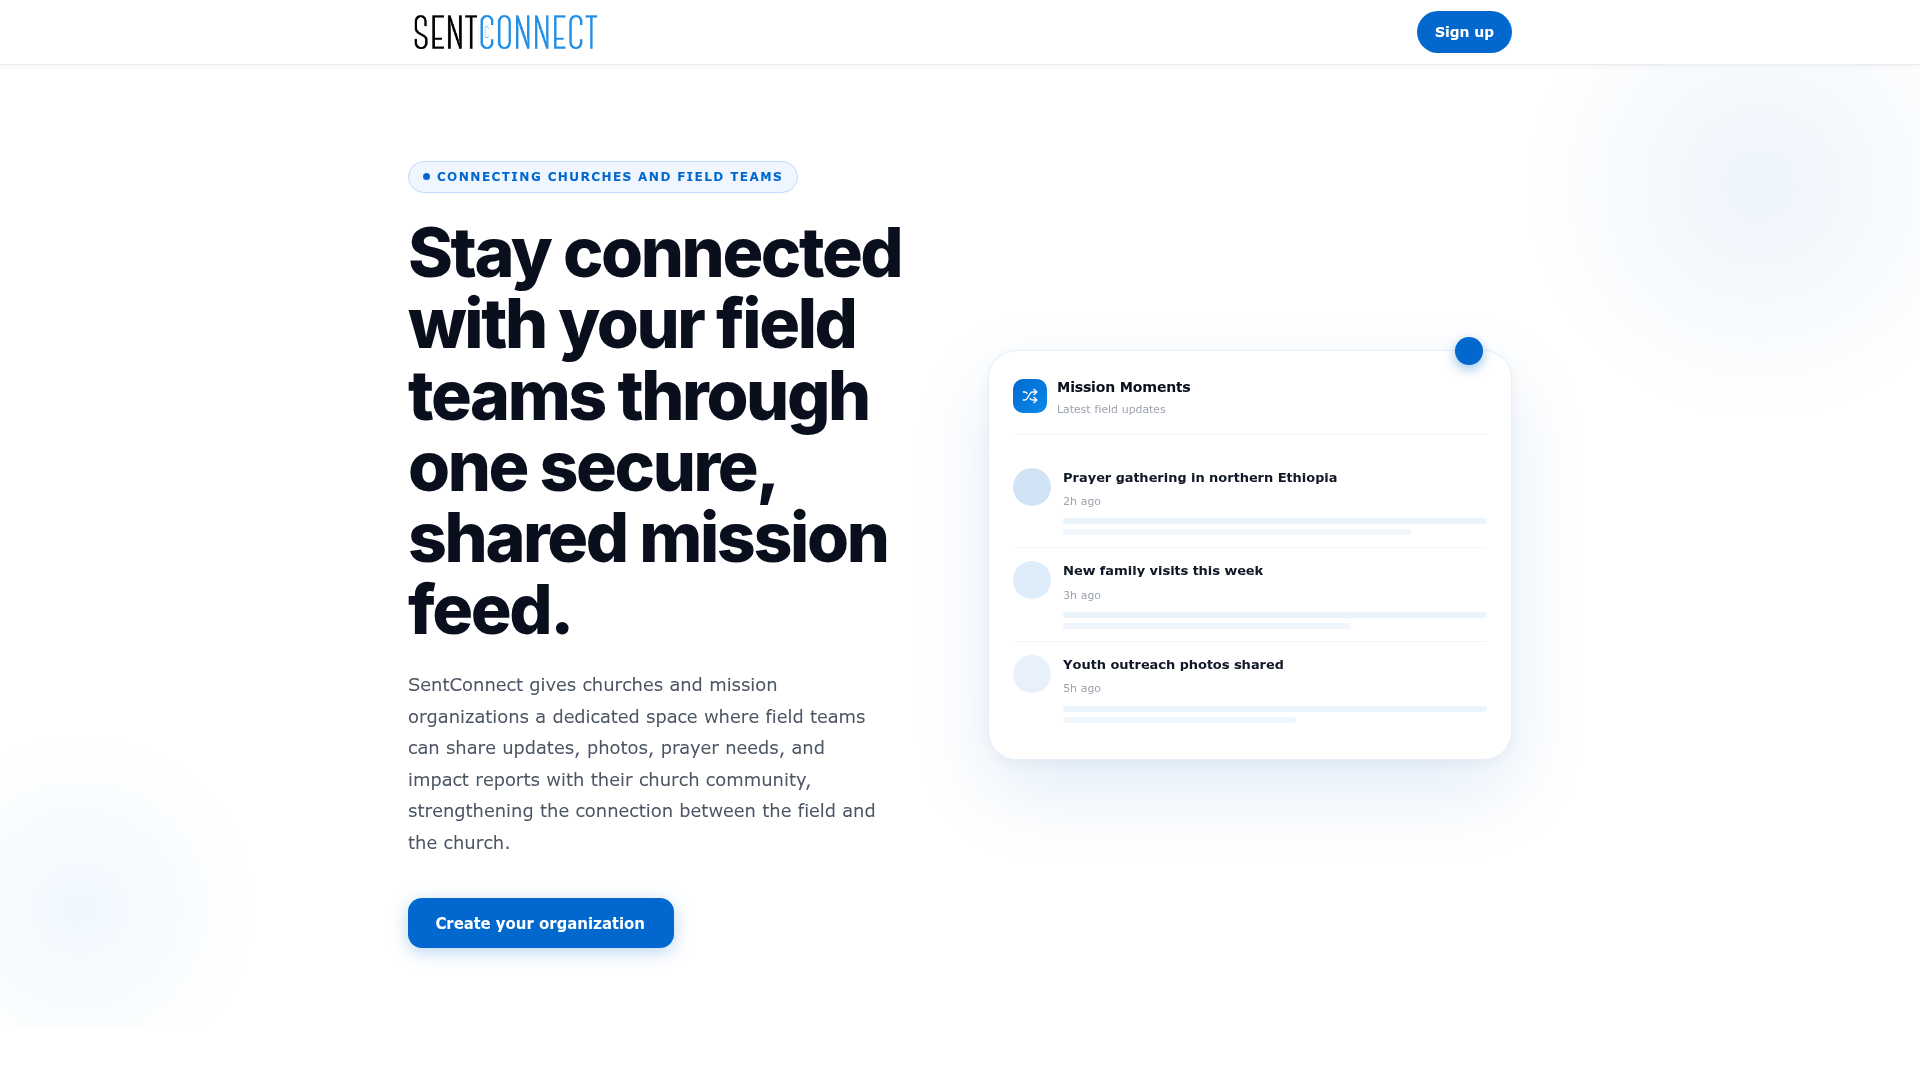
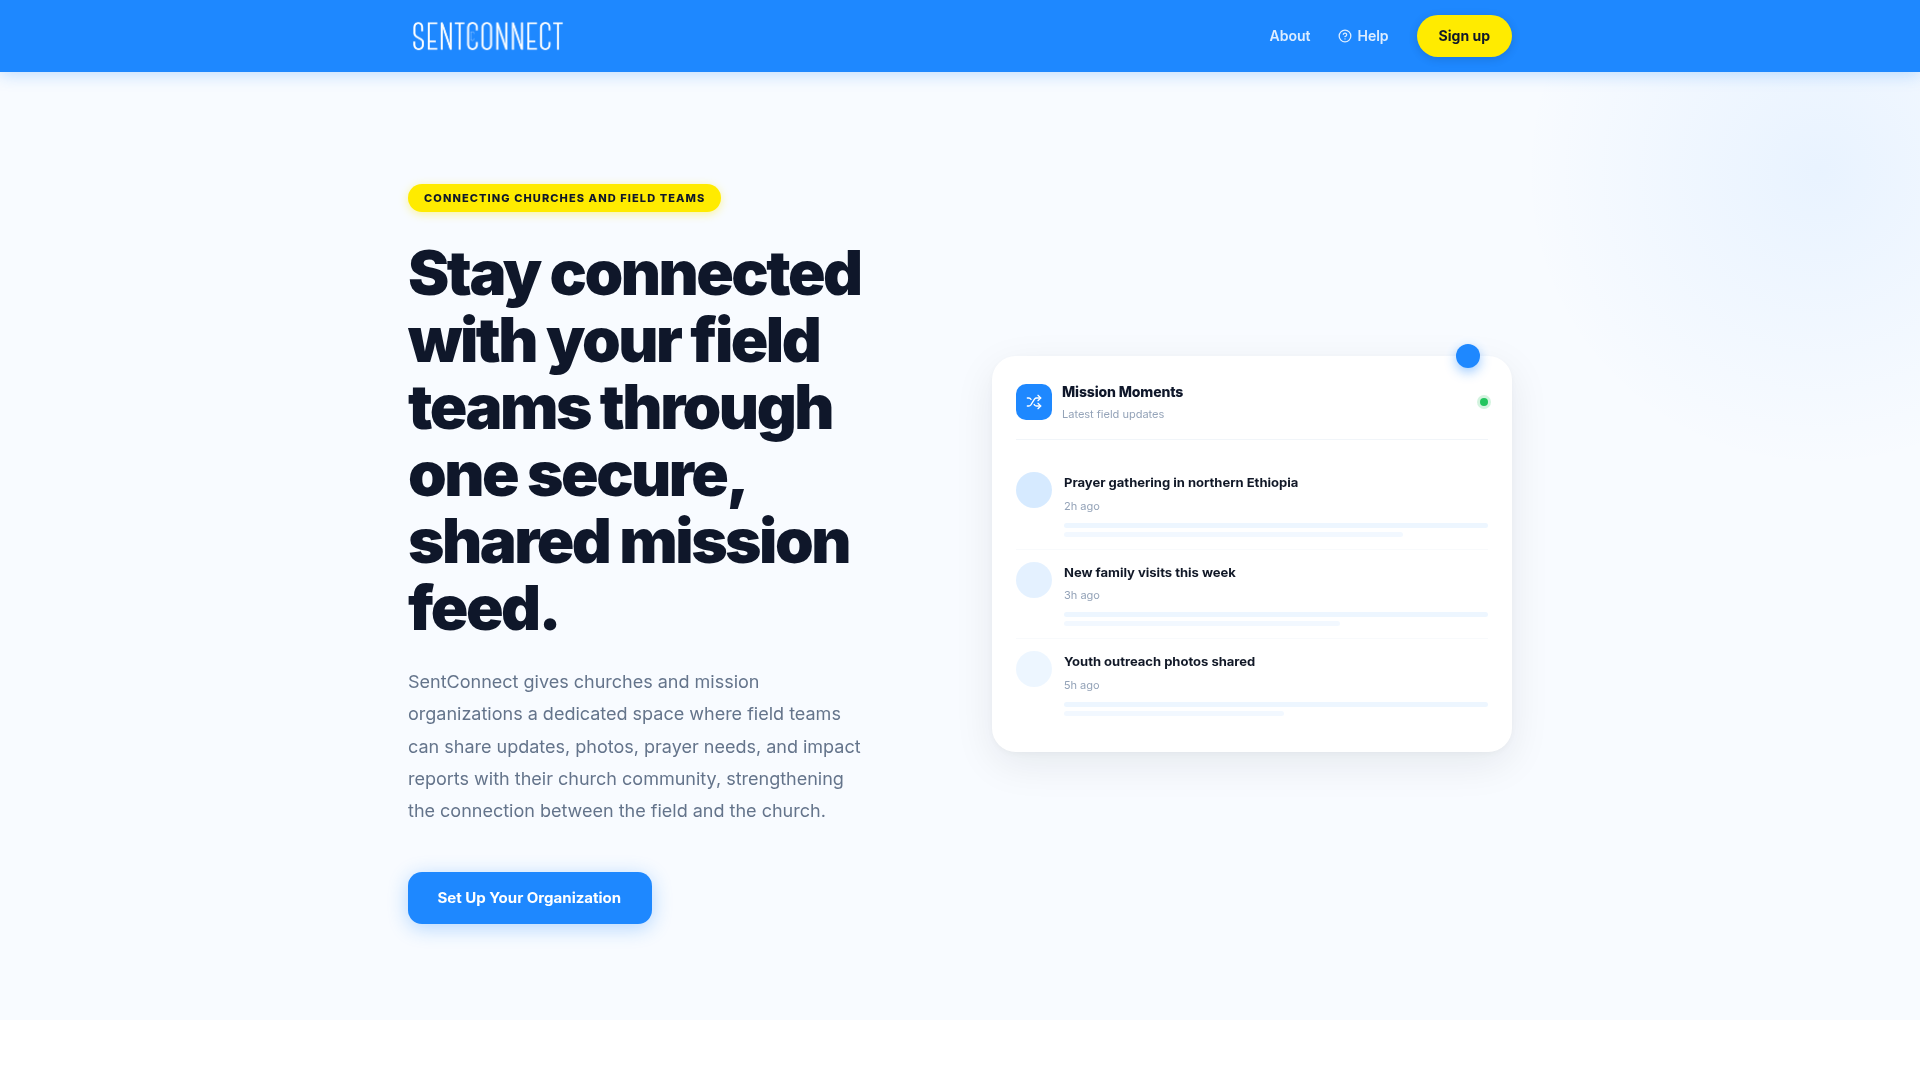
Update website colors to a purple theme
Replace blue color constants and rgba references with purple equivalents in the LandingPage component.

Replit-Commit-Author: Agent
Replit-Commit-Session-Id: 67703e95-de7f-4580-995f-84446d52c419
Replit-Commit-Checkpoint-Type: full_checkpoint
Replit-Commit-Event-Id: 647f3654-264d-443a-ac0f-00fc4bb1a5c5
Replit-Commit-Screenshot-Url: https://storage.googleapis.com/screenshot-production-us-central1/ee3a6125-4ede-4b8c-9bf0-800e83365df3/67703e95-de7f-4580-995f-84446d52c419/PyS3VlP
Replit-Helium-Checkpoint-Created: true

diff --git a/artifacts/mission-reports/src/App.tsx b/artifacts/mission-reports/src/App.tsx
@@ -126,13 +126,13 @@ function LandingPage() {
     return () => { cancelled = true; };
   }, []);
 
-  const BLUE      = "#1E88FF";
-  const BLUE_DARK = "#0A6CFF";
+  const BLUE      = "#8A05FF";
+  const BLUE_DARK = "#6E04CC";
   const YELLOW    = "#FFEB00";
   const CHARCOAL  = "#1F2937";
   const TEXT      = "#0F172A";
   const TEXT2     = "#64748B";
-  const BG        = "#F8FBFF";
+  const BG        = "#F9F5FF";
 
   return (
     <div className="min-h-screen" style={{ fontFamily: "'Inter', system-ui, -apple-system, sans-serif", background: BG, color: TEXT }}>
@@ -179,7 +179,7 @@ function LandingPage() {
         {/* ── HERO ── */}
         <section style={{ padding: "112px 0 96px", background: BG, position: "relative", overflow: "hidden" }}>
           {/* subtle radial glow */}
-          <div style={{ position: "absolute", top: -200, right: -200, width: 600, height: 600, borderRadius: "50%", background: "radial-gradient(circle, rgba(30,136,255,0.07) 0%, transparent 70%)", pointerEvents: "none" }} />
+          <div style={{ position: "absolute", top: -200, right: -200, width: 600, height: 600, borderRadius: "50%", background: "radial-gradient(circle, rgba(138,5,255,0.07) 0%, transparent 70%)", pointerEvents: "none" }} />
 
           <div className="lp-hero-grid mx-auto max-w-6xl px-6">
             {/* Left */}
@@ -225,17 +225,17 @@ function LandingPage() {
 
               {/* feed rows */}
               {[
-                { title: content.previewTitle1, ago: "2h ago", w: "80%", color: "rgba(30,136,255,0.18)" },
-                { title: content.previewTitle2, ago: "3h ago", w: "65%", color: "rgba(30,136,255,0.12)" },
-                { title: content.previewTitle3, ago: "5h ago", w: "52%", color: "rgba(30,136,255,0.08)" },
+                { title: content.previewTitle1, ago: "2h ago", w: "80%", color: "rgba(138,5,255,0.18)" },
+                { title: content.previewTitle2, ago: "3h ago", w: "65%", color: "rgba(138,5,255,0.12)" },
+                { title: content.previewTitle3, ago: "5h ago", w: "52%", color: "rgba(138,5,255,0.08)" },
               ].map(({ title, ago, w, color }, i) => (
                 <div key={i} style={{ display: "flex", alignItems: "flex-start", gap: 12, padding: "12px 0", borderBottom: i < 2 ? "1px solid #F8FAFC" : "none" }}>
                   <div style={{ width: 36, height: 36, borderRadius: "50%", background: color, flexShrink: 0 }} />
                   <div style={{ flex: 1, minWidth: 0 }}>
                     <p style={{ fontSize: 13, fontWeight: 700, color: "#111827", margin: "0 0 3px", whiteSpace: "nowrap", overflow: "hidden", textOverflow: "ellipsis" }}>{title}</p>
                     <p style={{ fontSize: 11, color: "#94A3B8", margin: "0 0 8px" }}>{ago}</p>
-                    <div style={{ height: 5, background: "rgba(30,136,255,0.08)", borderRadius: 999, width: "100%" }} />
-                    <div style={{ height: 5, background: "rgba(30,136,255,0.06)", borderRadius: 999, width: w, marginTop: 4 }} />
+                    <div style={{ height: 5, background: "rgba(138,5,255,0.08)", borderRadius: 999, width: "100%" }} />
+                    <div style={{ height: 5, background: "rgba(138,5,255,0.06)", borderRadius: 999, width: w, marginTop: 4 }} />
                   </div>
                 </div>
               ))}
@@ -253,7 +253,7 @@ function LandingPage() {
 
             <div className="lp-steps-grid">
               {/* connector line */}
-              <div className="lp-connector" style={{ position: "absolute", top: 36, left: "calc(16.66% + 16px)", right: "calc(16.66% + 16px)", height: 1, background: "linear-gradient(90deg, transparent, rgba(30,136,255,0.2), transparent)", pointerEvents: "none" }} />
+              <div className="lp-connector" style={{ position: "absolute", top: 36, left: "calc(16.66% + 16px)", right: "calc(16.66% + 16px)", height: 1, background: "linear-gradient(90deg, transparent, rgba(138,5,255,0.2), transparent)", pointerEvents: "none" }} />
 
               {[
                 { title: content.step1Title, desc: content.step1Description, n: "01" },
@@ -317,7 +317,7 @@ function LandingPage() {
               <a
                 href="mailto:support@sentconnect.org"
                 style={{ fontSize: 13, color: "#9CA3AF", textDecoration: "none", transition: "color .15s", display: "inline-block" }}
-                onMouseEnter={e => (e.currentTarget.style.color = "#1E88FF")}
+                onMouseEnter={e => (e.currentTarget.style.color = "#8A05FF")}
                 onMouseLeave={e => (e.currentTarget.style.color = "#9CA3AF")}
               >
                 support@sentconnect.org
